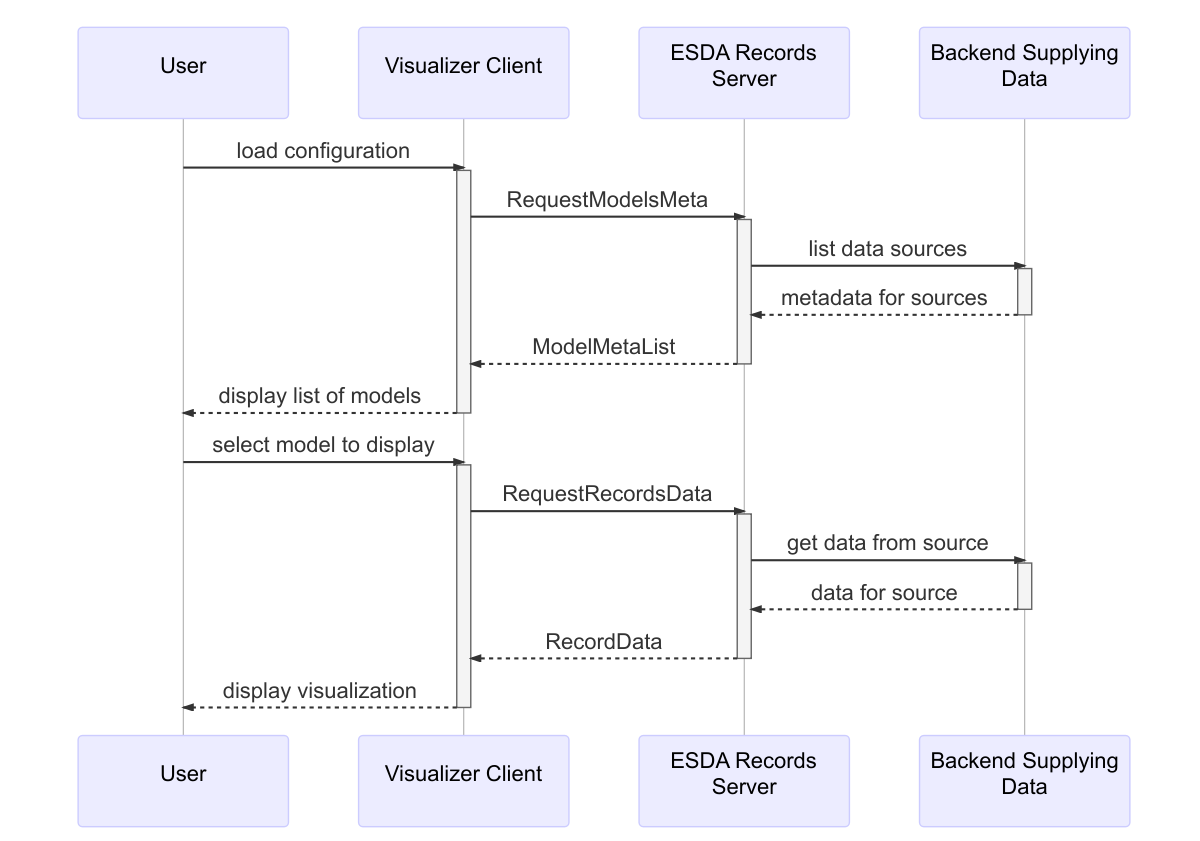
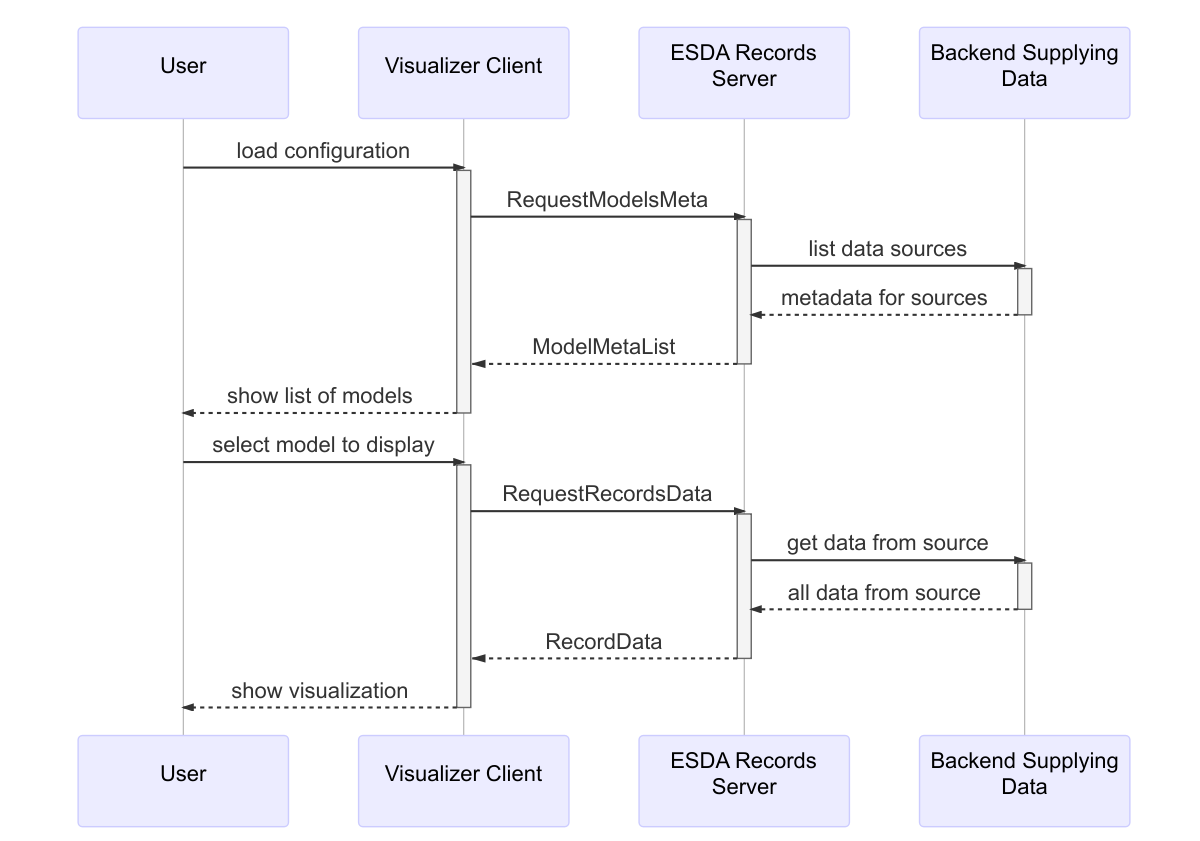
added diagram for dynamic rpc

Changed region(s): [[0.185, 0.4637, 0.37, 0.4946], [0.6475, 0.6801, 0.8017, 0.7111], [0.185, 0.8038, 0.3392, 0.8347]]

diff --git a/01-overview.md b/01-overview.md
@@ -3,3 +3,5 @@
 ![Interrelationship between protocol buffer messages in the ESDA Records API.](records.mermaid.png)
 
 ![Visualizing data from a static source using the ESDA Records API.](static-data-rpc.mermaid.png)
+
+![Visualizing data from a dynamic source using the ESDA Records API.](dynamic-data-rpc.mermaid.png)
